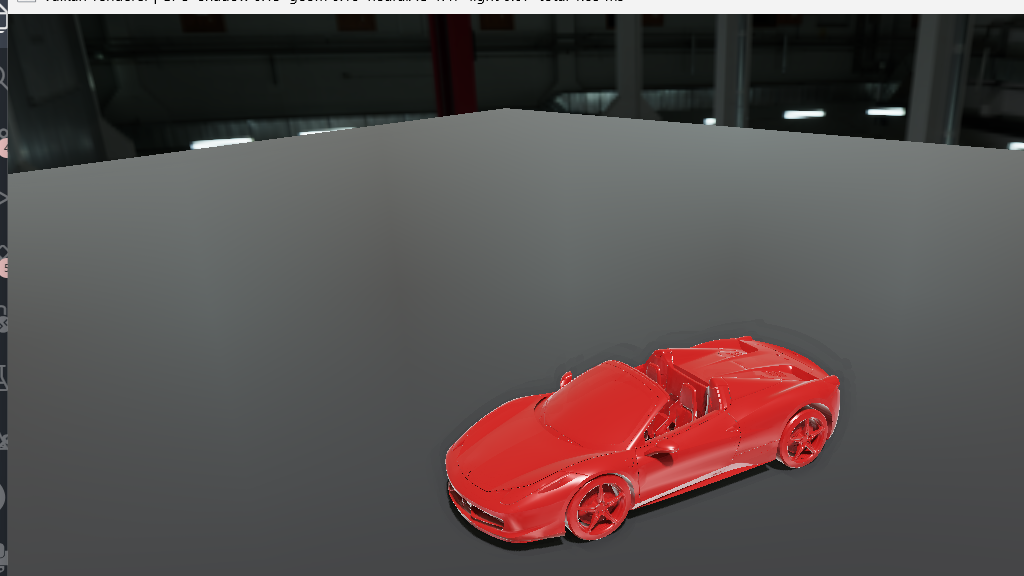
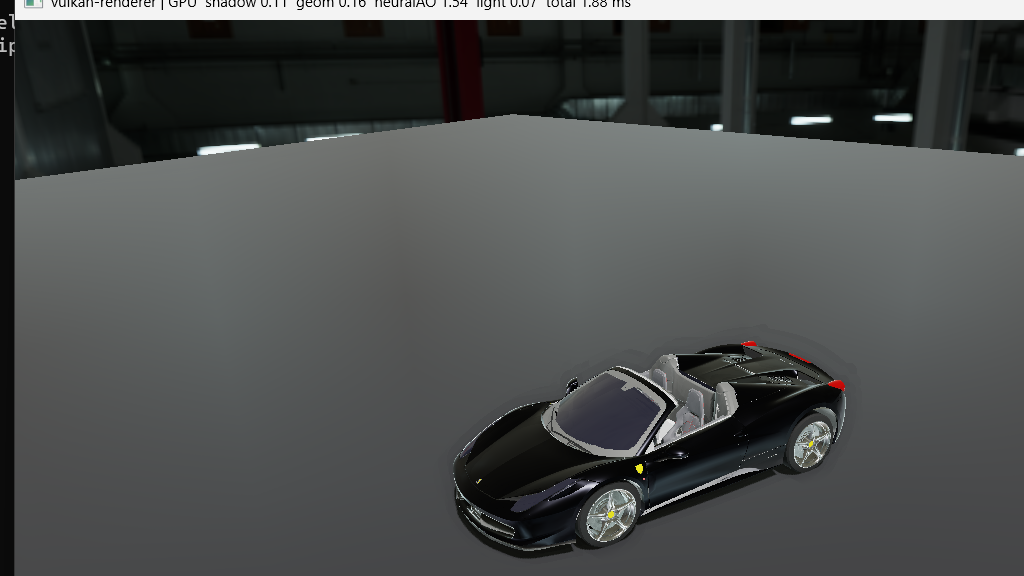
Render the car as multi-material (black metallic body, chrome, glass, tires)
Extend the loader + geometry pass from single-material to per-submesh materials:
- GltfLoader now emits a submesh (index range + material index) per glTF
  primitive and loads every material's factors + name (no per-material
  textures needed since the car is texture-less). MeshData gains submeshes,
  materials, and a hasTextures flag.
- Renderer builds a SubDraw list per mesh; the geometry secondaries bind the
  vertex/index buffers once and issue one draw per submesh with that
  material's push-constant factors. DrawInstance now references a SubDraw
  list; the shadow pass still draws the whole mesh in one call.
- A name-based scheme shades the car: Body_Color -> glossy black metallic,
  Tires -> matte black, Glass -> dark glossy, chrome/metal -> polished,
  taillights/LEDs -> emissive glow; textured single-material models (helmet)
  keep the existing shared-texture path unchanged.

No shader, descriptor, or pipeline changes. Verified via screenshot (black
Ferrari with chrome wheels, glass, red taillights) and validation-clean.

Changed region(s): [[0.0, 0.0, 1.0, 1.0], [0.4375, 0.5625, 0.8438, 0.9688], [0.0625, 0.125, 0.0938, 0.1562]]

diff --git a/src/render/Renderer.cpp b/src/render/Renderer.cpp
@@ -14,6 +14,7 @@
 
 #include <algorithm>
 #include <array>
+#include <cctype>
 #include <chrono>
 #include <cstdio>
 #include <cstring>
@@ -97,13 +98,7 @@ Renderer::Renderer(Window& window, Device& device, DeviceAllocator& allocator, S
     modelCenter_ = model.center;
     modelRadius_ = model.radius;
     modelMinY_ = model.aabbMin.y;
-    // The car has many materials but our loader is single-material, so shade it as one glossy
-    // red car paint (flat-material path: emissiveFactor.w = 0 ignores the maps and uses geometry
-    // normals). This reads as a clean painted-car / concept-render look.
-    material_.baseColorFactor = glm::vec4(0.5f, 0.02f, 0.02f, 1.0f);
-    material_.emissiveFactor = glm::vec4(0.0f); // w = 0: flat material
-    material_.metallicFactor = 0.2f;
-    material_.roughnessFactor = 0.3f;
+    buildMeshSubDraws(model);
 
     // Dark, glossy showroom floor: near-black albedo with low roughness so it mirrors the
     // environment and the car. w = 0 selects the non-textured shading path.
@@ -1152,6 +1147,73 @@ void Renderer::createMesh(const MeshData& model) {
                                 VK_BUFFER_USAGE_INDEX_BUFFER_BIT);
 }
 
+void Renderer::buildMeshSubDraws(const MeshData& model) {
+    auto contains = [](const std::string& s, const char* sub) {
+        std::string lower(s);
+        std::transform(lower.begin(), lower.end(), lower.begin(),
+                       [](unsigned char c) { return static_cast<char>(std::tolower(c)); });
+        return lower.find(sub) != std::string::npos;
+    };
+
+    // Name-based scheme for the textureless car: glossy black body, matte-black tires, dark glossy
+    // glass, glowing lights, polished-metal accents (see the plan / user choices).
+    auto carScheme = [&](const SubMaterial& m) {
+        MaterialPush p;
+        p.baseColorFactor = m.baseColorFactor;
+        p.emissiveFactor = glm::vec4(m.emissiveFactor, 0.0f); // w = 0: flat (no maps)
+        p.metallicFactor = m.metallicFactor;
+        p.roughnessFactor = m.roughnessFactor;
+        const std::string& n = m.name;
+        if (contains(n, "body")) {
+            p.baseColorFactor = glm::vec4(0.015f, 0.015f, 0.02f, 1.0f);
+            p.metallicFactor = 1.0f;
+            p.roughnessFactor = 0.30f;
+        } else if (contains(n, "tire") || contains(n, "rubber") || contains(n, "wheel")) {
+            p.baseColorFactor = glm::vec4(0.02f, 0.02f, 0.02f, 1.0f);
+            p.metallicFactor = 0.0f;
+            p.roughnessFactor = 0.9f;
+        } else if (contains(n, "glass")) {
+            if (contains(n, "taillight")) {
+                p.baseColorFactor = glm::vec4(0.3f, 0.0f, 0.0f, 1.0f);
+                p.emissiveFactor = glm::vec4(0.6f, 0.0f, 0.0f, 0.0f); // red glow
+                p.metallicFactor = 0.0f;
+                p.roughnessFactor = 0.1f;
+            } else {
+                p.baseColorFactor = glm::vec4(0.02f, 0.02f, 0.03f, 1.0f);
+                p.metallicFactor = 0.0f;
+                p.roughnessFactor = 0.05f;
+            }
+        } else if (contains(n, "led") || contains(n, "signal")) {
+            p.emissiveFactor = glm::vec4(glm::vec3(m.baseColorFactor) * 2.5f, 0.0f); // glow
+        } else if (contains(n, "chrome") || contains(n, "metal")) {
+            p.metallicFactor = 1.0f;
+            p.roughnessFactor = 0.2f;
+        } else {
+            p.metallicFactor = 0.1f; // interior / leather / plastic / colored trim: dark, matte
+            p.roughnessFactor = 0.6f;
+        }
+        return p;
+    };
+
+    meshSubDraws_.clear();
+    meshSubDraws_.reserve(model.submeshes.size());
+    for (const Submesh& s : model.submeshes) {
+        const size_t mi = s.material >= 0 ? static_cast<size_t>(s.material) : 0;
+        const SubMaterial& m = model.materials[mi];
+        MaterialPush push;
+        if (model.hasTextures) {
+            // Textured single-material models (e.g. the helmet): sample the shared maps.
+            push.baseColorFactor = m.baseColorFactor;
+            push.emissiveFactor = glm::vec4(m.emissiveFactor, 1.0f); // w = 1: sample textures
+            push.metallicFactor = m.metallicFactor;
+            push.roughnessFactor = m.roughnessFactor;
+        } else {
+            push = carScheme(m);
+        }
+        meshSubDraws_.push_back({s.firstIndex, s.indexCount, push});
+    }
+}
+
 void Renderer::createGround() {
     // A large flat quad at kGroundY, facing up. Indexed both windings so it's visible and casts
     // depth regardless of the pipeline's back-face culling.
@@ -1169,6 +1231,8 @@ void Renderer::createGround() {
                                                   VK_BUFFER_USAGE_VERTEX_BUFFER_BIT);
     groundIndexBuffer_ = createDeviceLocalBuffer(indices.data(), sizeof(uint32_t) * indices.size(),
                                                  VK_BUFFER_USAGE_INDEX_BUFFER_BIT);
+
+    groundSubDraws_ = {{0, groundIndexCount_, groundMaterial_}};
 }
 
 void Renderer::createUniformBuffers() {
@@ -1436,14 +1500,10 @@ void Renderer::buildInstances(float time) {
         m = glm::rotate(m, time * glm::radians(20.0f) + phase, glm::vec3(0, 1, 0));
         m = glm::scale(m, glm::vec3(fit));
         m = glm::translate(m, -modelCenter_);
-        instances_.push_back({m, &vertexBuffer_, &indexBuffer_, indexCount_,
-                              material_.baseColorFactor, material_.emissiveFactor,
-                              material_.metallicFactor, material_.roughnessFactor});
+        instances_.push_back({m, &vertexBuffer_, &indexBuffer_, indexCount_, &meshSubDraws_});
     }
     instances_.push_back({groundModel_, &groundVertexBuffer_, &groundIndexBuffer_,
-                          groundIndexCount_, groundMaterial_.baseColorFactor,
-                          groundMaterial_.emissiveFactor, groundMaterial_.metallicFactor,
-                          groundMaterial_.roughnessFactor});
+                          groundIndexCount_, &groundSubDraws_});
 }
 
 void Renderer::recordGeometrySecondary(int threadIndex, uint32_t frame, VkExtent2D extent) {
@@ -1487,20 +1547,24 @@ void Renderer::recordGeometrySecondary(int threadIndex, uint32_t frame, VkExtent
 
     for (size_t idx = begin; idx < end; ++idx) {
         const DrawInstance& inst = instances_[idx];
-        MeshPush push{};
-        push.model = inst.model;
-        push.baseColorFactor = inst.baseColorFactor;
-        push.emissiveFactor = inst.emissiveFactor;
-        push.metallicFactor = inst.metallicFactor;
-        push.roughnessFactor = inst.roughnessFactor;
-        vkCmdPushConstants(sec, geomPipelineLayout_,
-                           VK_SHADER_STAGE_VERTEX_BIT | VK_SHADER_STAGE_FRAGMENT_BIT, 0,
-                           sizeof(MeshPush), &push);
         const VkBuffer buffers[] = {inst.vertexBuffer->handle()};
         const VkDeviceSize offsets[] = {0};
         vkCmdBindVertexBuffers(sec, 0, 1, buffers, offsets);
         vkCmdBindIndexBuffer(sec, inst.indexBuffer->handle(), 0, VK_INDEX_TYPE_UINT32);
-        vkCmdDrawIndexed(sec, inst.indexCount, 1, 0, 0, 0);
+
+        // One draw per material-homogeneous submesh, each with its own factors.
+        for (const SubDraw& sub : *inst.subDraws) {
+            MeshPush push{};
+            push.model = inst.model;
+            push.baseColorFactor = sub.material.baseColorFactor;
+            push.emissiveFactor = sub.material.emissiveFactor;
+            push.metallicFactor = sub.material.metallicFactor;
+            push.roughnessFactor = sub.material.roughnessFactor;
+            vkCmdPushConstants(sec, geomPipelineLayout_,
+                               VK_SHADER_STAGE_VERTEX_BIT | VK_SHADER_STAGE_FRAGMENT_BIT, 0,
+                               sizeof(MeshPush), &push);
+            vkCmdDrawIndexed(sec, sub.indexCount, 1, sub.firstIndex, 0, 0);
+        }
     }
 
     VK_CHECK(vkEndCommandBuffer(sec));
@@ -1565,7 +1629,7 @@ void Renderer::recordCommandBuffer(VkCommandBuffer cmd, uint32_t imageIndex) {
         vkCmdPushConstants(cmd, shadowPipelineLayout_, VK_SHADER_STAGE_VERTEX_BIT, 0,
                            sizeof(glm::mat4), &lightMvp);
         bindMesh(*inst.vertexBuffer, *inst.indexBuffer);
-        vkCmdDrawIndexed(cmd, inst.indexCount, 1, 0, 0, 0);
+        vkCmdDrawIndexed(cmd, inst.totalIndexCount, 1, 0, 0, 0);
     }
     vkCmdEndRenderPass(cmd);
     writeTs(1, VK_PIPELINE_STAGE_BOTTOM_OF_PIPE_BIT);

diff --git a/src/render/Renderer.hpp b/src/render/Renderer.hpp
@@ -57,6 +57,7 @@ private:
     void createIbl();
     void createTextures(const MeshData& model);
     void createMesh(const MeshData& model);
+    void buildMeshSubDraws(const MeshData& model);
     void createGround();
     void createUniformBuffers();
     void createDescriptorPool();
@@ -159,16 +160,32 @@ private:
     std::array<VkCommandPool, kThreadCount> threadCommandPools_{};
     std::array<std::array<VkCommandBuffer, kFramesInFlight>, kThreadCount> geomSecondaries_{};
 
-    // One draw's worth of state; the per-frame instance list is partitioned across the workers.
+    // Per-object material factors; emissiveFactor.w is the "use textures" flag (0 = flat).
+    struct MaterialPush {
+        glm::vec4 baseColorFactor{1.0f};
+        glm::vec4 emissiveFactor{0.0f};
+        float metallicFactor = 1.0f;
+        float roughnessFactor = 1.0f;
+    };
+    MaterialPush groundMaterial_;
+
+    // A material-homogeneous slice of a mesh's index buffer (one glTF material).
+    struct SubDraw {
+        uint32_t firstIndex;
+        uint32_t indexCount;
+        MaterialPush material;
+    };
+    std::vector<SubDraw> meshSubDraws_;   // the loaded model, split by material
+    std::vector<SubDraw> groundSubDraws_; // the ground plane (single flat material)
+
+    // One drawable object; the per-frame instance list is partitioned across the workers. The
+    // shadow pass draws totalIndexCount at once; the geometry pass draws each subDraw separately.
     struct DrawInstance {
         glm::mat4 model;
         const Buffer* vertexBuffer;
         const Buffer* indexBuffer;
-        uint32_t indexCount;
-        glm::vec4 baseColorFactor;
-        glm::vec4 emissiveFactor; // w = useTextures flag
-        float metallicFactor;
-        float roughnessFactor;
+        uint32_t totalIndexCount;
+        const std::vector<SubDraw>* subDraws;
     };
     std::vector<DrawInstance> instances_;
 
@@ -177,16 +194,6 @@ private:
     VkSampler sampler_ = VK_NULL_HANDLE;
 
     std::unique_ptr<Ibl> ibl_;
-
-    // Per-object material factors; emissiveFactor.w is the "use textures" flag (0 = flat ground).
-    struct MaterialPush {
-        glm::vec4 baseColorFactor{1.0f};
-        glm::vec4 emissiveFactor{0.0f};
-        float metallicFactor = 1.0f;
-        float roughnessFactor = 1.0f;
-    };
-    MaterialPush material_;
-    MaterialPush groundMaterial_;
 
     // Mesh + ground geometry.
     Buffer vertexBuffer_;

diff --git a/src/render/GltfLoader.cpp b/src/render/GltfLoader.cpp
@@ -120,6 +120,8 @@ void appendPrimitive(const tinygltf::Model& model, const tinygltf::Primitive& pr
     // Indices (widen whatever integer width glTF used to uint32, offset into the merged buffer).
     const tinygltf::Accessor& idxAcc = model.accessors[prim.indices];
     const unsigned char* idxData = accessorPtr(model, idxAcc);
+    out.submeshes.push_back({static_cast<uint32_t>(out.indices.size()),
+                             static_cast<uint32_t>(idxAcc.count), prim.material});
     for (size_t i = 0; i < idxAcc.count; ++i) {
         uint32_t index = 0;
         switch (idxAcc.componentType) {
@@ -225,6 +227,29 @@ void loadMaterial(const tinygltf::Model& model, MeshData& out) {
         glm::vec3(mat.emissiveFactor[0], mat.emissiveFactor[1], mat.emissiveFactor[2]);
 }
 
+// Load every material's factors + name (no maps) for per-submesh multi-material shading, and note
+// whether the model uses any base-color textures at all.
+void loadAllMaterials(const tinygltf::Model& model, MeshData& out) {
+    for (const tinygltf::Material& mat : model.materials) {
+        const auto& pbr = mat.pbrMetallicRoughness;
+        SubMaterial sm;
+        sm.baseColorFactor = glm::vec4(pbr.baseColorFactor[0], pbr.baseColorFactor[1],
+                                       pbr.baseColorFactor[2], pbr.baseColorFactor[3]);
+        sm.emissiveFactor =
+            glm::vec3(mat.emissiveFactor[0], mat.emissiveFactor[1], mat.emissiveFactor[2]);
+        sm.metallicFactor = static_cast<float>(pbr.metallicFactor);
+        sm.roughnessFactor = static_cast<float>(pbr.roughnessFactor);
+        sm.name = mat.name;
+        out.materials.push_back(sm);
+        if (pbr.baseColorTexture.index >= 0) {
+            out.hasTextures = true;
+        }
+    }
+    if (out.materials.empty()) {
+        out.materials.push_back(SubMaterial{}); // default; submeshes with material -1 map here
+    }
+}
+
 void computeBounds(MeshData& out) {
     glm::vec3 lo(std::numeric_limits<float>::max());
     glm::vec3 hi(std::numeric_limits<float>::lowest());
@@ -272,6 +297,7 @@ MeshData loadGltf(const std::string& path) {
     }
 
     loadMaterial(model, out);
+    loadAllMaterials(model, out);
     computeBounds(out);
     return out;
 }

diff --git a/src/render/GltfLoader.hpp b/src/render/GltfLoader.hpp
@@ -16,14 +16,35 @@ struct TextureData {
     uint32_t height = 1;
 };
 
-// The CPU-side result of loading a glTF file: a single merged mesh (all primitives baked into
-// world space and concatenated) plus a full metallic-roughness material (five maps + factors).
-// Assumes one material for the whole model, which holds for the DamagedHelmet sample.
+// A single glTF material's PBR factors (no maps). Used for multi-material models whose parts
+// differ only by factors (e.g. the car's body / tires / glass).
+struct SubMaterial {
+    glm::vec4 baseColorFactor{1.0f};
+    glm::vec3 emissiveFactor{0.0f};
+    float metallicFactor = 1.0f;
+    float roughnessFactor = 1.0f;
+    std::string name;
+};
+
+// A contiguous range of the merged index buffer that shares one material.
+struct Submesh {
+    uint32_t firstIndex = 0;
+    uint32_t indexCount = 0;
+    int material = -1;
+};
+
+// The CPU-side result of loading a glTF file: a single merged vertex/index buffer (all primitives
+// baked into world space and concatenated), split into submeshes by material. Textured models
+// (e.g. DamagedHelmet) use the single-material maps below; textureless multi-material models
+// (e.g. the car) are shaded per-submesh from `materials` factors.
 struct MeshData {
     std::vector<Vertex> vertices;
     std::vector<uint32_t> indices;
+    std::vector<Submesh> submeshes;
+    std::vector<SubMaterial> materials;
+    bool hasTextures = false;
 
-    // PBR metallic-roughness material maps.
+    // Single-material maps (material 0), used for textured models via the shared descriptor set.
     TextureData baseColor;         // sRGB
     TextureData metallicRoughness; // linear: G = roughness, B = metallic
     TextureData normal;            // linear tangent-space normal map

diff --git a/README.md b/README.md
@@ -5,7 +5,7 @@ abstraction layer hiding the driver. It implements a full deferred PBR pipeline,
 lighting, shadow mapping, multithreaded command recording, a hand-written GPU memory allocator,
 and a **neural** (compute-shader MLP) ambient-occlusion pass.
 
-![The renderer: a glossy red sports car in a dark garage, lit by a directional key light with image-based reflections and a shadow, and a live GPU per-pass timing readout in the title bar](docs/images/hero.png)
+![The renderer: a glossy black metallic sports car (multi-material: chrome wheels, glass, red taillights) in a dark garage, lit by a directional key light with image-based reflections and a shadow, and a live GPU per-pass timing readout in the title bar](docs/images/hero.png)
 
 > Built as a deep dive into the systems that underlie GPU drivers: explicit memory management,
 > synchronization, queue submission, SPIR-V, and pipeline-cache serialization — plus an ML
@@ -33,15 +33,17 @@ Loads glTF models (tinygltf) and HDR environments (stb) fetched automatically at
 ## What you're seeing
 
 A sports car (a glTF model in `assets/`) spinning on a dark, glossy floor in a workshop
-environment. The scene is deliberately dark: the environment lighting is dimmed and the visible
-background darkened, so the car is shaped by a bright directional key light while still catching
-the environment as reflections. Neural AO darkens the contact and crease regions, and a
+environment. The car is drawn as a **multi-material** mesh — glossy black metallic body, matte
+black tires, dark glass, polished chrome wheels, and glowing taillights — each part shaded from
+its own glTF material. The scene is deliberately dark: the environment lighting is dimmed and the
+visible background darkened, so the car is shaped by a bright directional key light while still
+catching the environment as reflections. Neural AO darkens the contact and crease regions, and a
 directional shadow grounds the car. The title bar shows measured GPU time per pass, e.g.
 `shadow 0.11  geom 0.16  neuralAO 1.5  light 0.07  total 1.8 ms`.
 
 The scene is data-driven — point `ASSET_PATH` / `ENV_HDR_PATH` (in `CMakeLists.txt`) at any glTF
-model and HDR environment to change it. (The bundled car is a Draco-decompressed model; the loader
-reads uncompressed glTF, and shades it as a single glossy paint since it is single-material.)
+model and HDR environment to change it. The mesh is split into submeshes by glTF material; the
+bundled car is a Draco-decompressed model (the loader reads uncompressed glTF).
 
 ## Architecture
 
